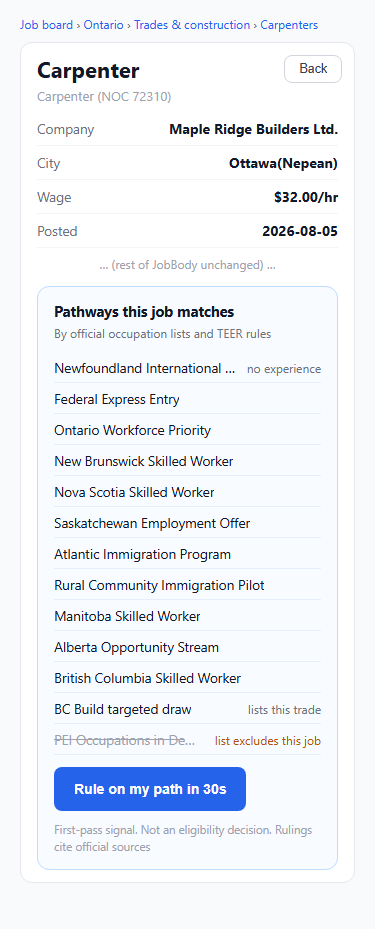
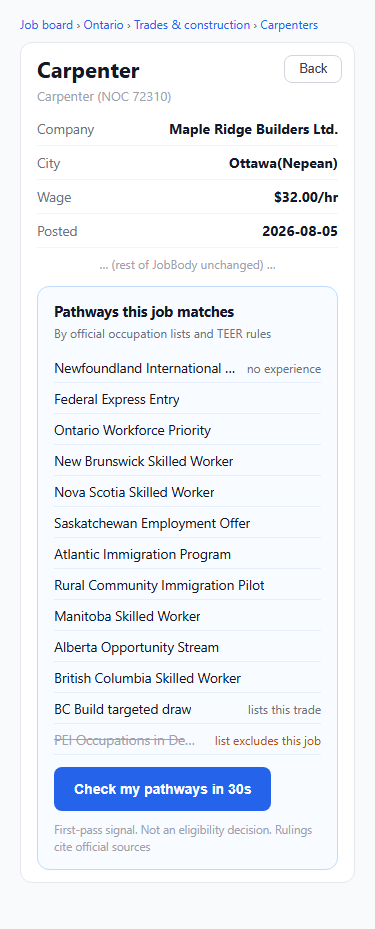
docs(C6): CTA 改书面语「30 秒完成路径判定」+ 立禁口语腔规矩;STATUS 记 NL 两条门槛未入库 [skip render]

Changed region(s): [[0.2053, 0.8116, 0.7333, 0.8741]]

diff --git a/STATUS.md b/STATUS.md
@@ -28,6 +28,11 @@
 >   Claude 式选项卡效果图已发未回话——**等 Frank 点头才写 UI**。图在 docs/assets/mockups/c6-*.png,
 >   设计=docs/design/对话选项卡与图片上传-20260806.md §五。
 > - C7 付费闸未动(等 Frank 拍板切分);图片上传未动(视觉模型前置,Frank 亲自谈)。
+> - **🔎 NL 国际毕业生两条门槛未入库**(Frank 问「要不要在 NL 上学」时查官方原文发现):
+>   ① PGWP 剩 ≥4 个月;② 外省毕业生的工作须与所学专业相关(仅 MUN/CNA 毕业生可不相关)。
+>   原文在 data/crawl/nl-imm/html_cache/fed95ccd…html(gov.nl.ca「4. International Graduate
+>   Category Eligibility Criteria」),补两行 pnp_requirements 即可让 pathVerdict 如实带出前提。
+>   注:**不需要在 NL 上学**(加拿大任意院校+PGWP 即可)——C01 马龙专业相关成立,结论不变。
 >
 > **⚡⚡⚡⚡⚡⚡⚡⚡⚡⚡⚡⚡⚡⚡⚡⚡⚡⚡⚡⚡⚡⚡⚡⚡⚡⚡⚡⚡⚡⚡ 上一轮交接(2026-08-06 凌晨,「C5 判定层全链 + 两起生产事故」)**
 > - **✅ C5 三批全落**(明细见 docs/implementation/C5-判定层pathVerdict-20260805.md):C5a 估分器×2
